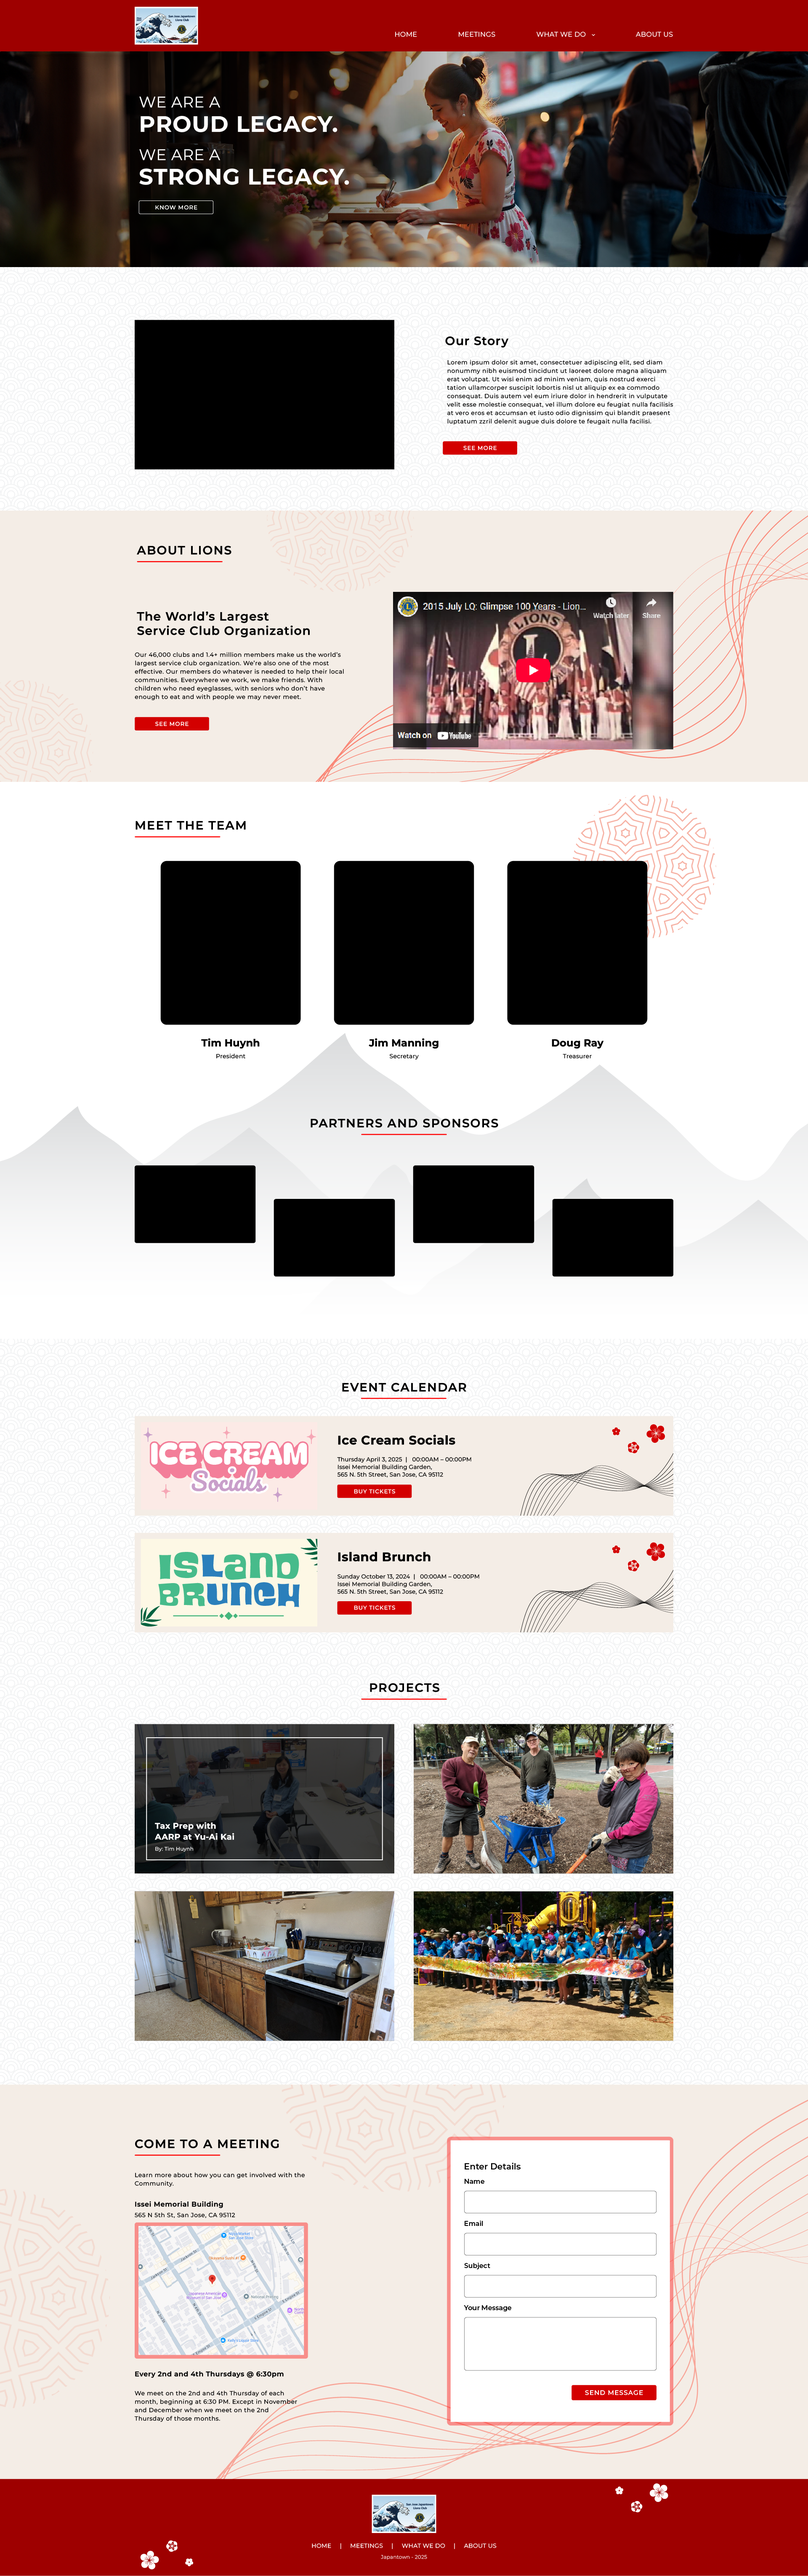
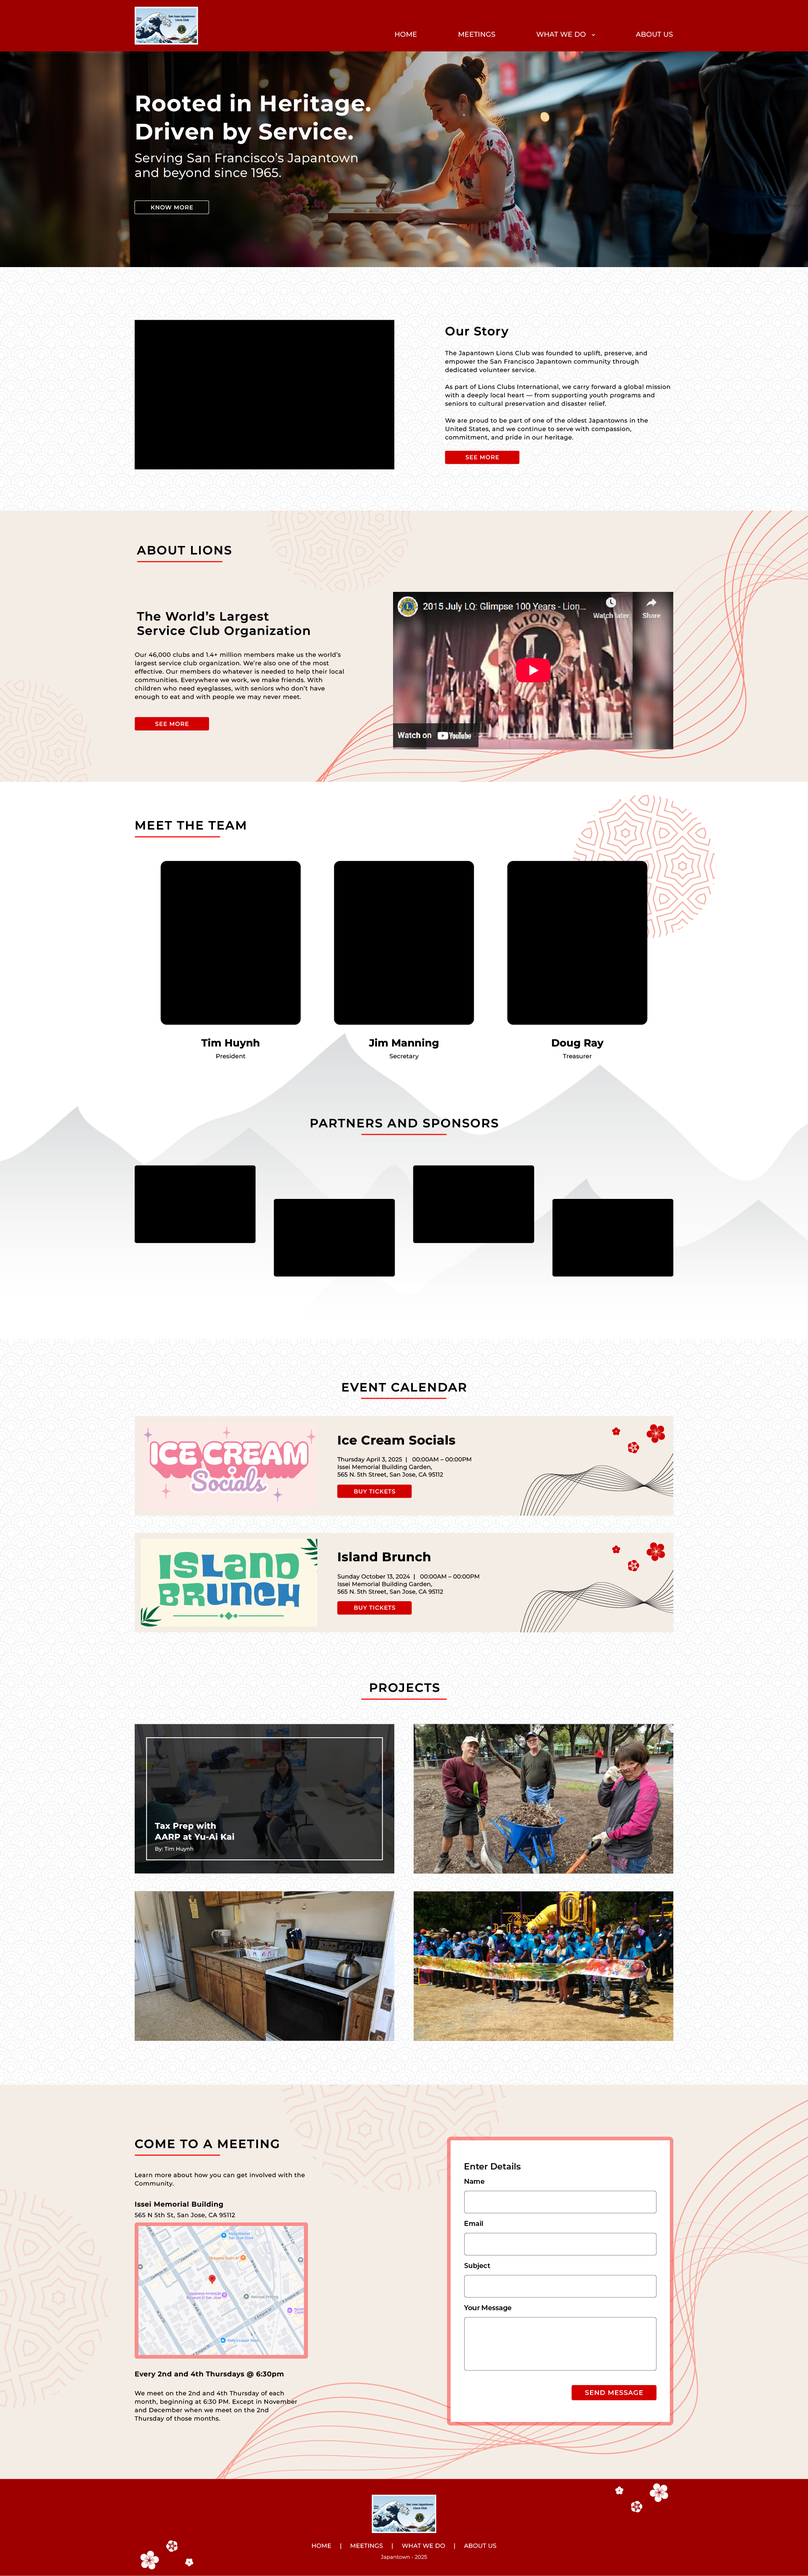
s

Changed region(s): [[0.5312, 0.1249, 0.8125, 0.1874], [0.1562, 0.0312, 0.4375, 0.0937]]

diff --git a/JapanTownDesign.html b/JapanTownDesign.html
@@ -52,15 +52,15 @@
 </head>
 <body onload="showImage('sample1')">
     <div class="topbar">
-        <!-- <button class="btn btn-primary btn-custom" onclick="showImage('sample1')">Web Design 1</button> -->
-        <button class="btn btn-success btn-custom" onclick="showImage('sample2')">Web Mockup</button>
+        <button class="btn btn-primary btn-custom" onclick="showImage('sample1')">Web Design 1</button>
+        <button class="btn btn-success btn-custom" onclick="showImage('sample2')">Web Design 2</button>
         <!-- <button class="btn btn-warning btn-custom" onclick="showImage('sample3')">Web Design 3</button> -->
     </div>
     <div class="content">
       
         <div class="image-container">
-            <!-- <img id="sample1" src="https://intranet.unixsurplus.com/images/yobirdie/securelogic-01.png" alt="Sample 1"> -->
-            <img id="sample2" src="JapanTown Web-01.png" alt="Sample 2">
+            <img id="sample1" src="JapanTown Web-01.png" alt="Sample 1">
+            <img id="sample2" src="JapanTown Web-02.png" alt="Sample 2">
             <!-- <img id="sample3" src="https://intranet.unixsurplus.com/images/yobirdie/securelogic-03.png" alt="Sample 3"> -->
         </div>
     </div>
@@ -73,7 +73,7 @@
         
         // Set default image on page load
         window.onload = function() {
-            showImage('sample2');
+            showImage('sample1');
         }
     </script>
 </body>
